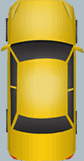
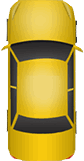
hybanie aut na kliknutie + test demo

Changed region(s): [[0.7381, 0.0, 1.0, 1.0], [0.0, 0.0, 0.2619, 1.0]]

diff --git a/animacie/script.js b/animacie/script.js
@@ -18,12 +18,31 @@ const poradieaut = [];
 // const easings = ['linear', 'easeInCubic', 'easeOutCubic', 'easeInOutCubic'];
 
 
+window.onload = function nastavAutaNaPozicie() {
+    //Nastavi modre auto na poziciu
+    modreauto.style.marginTop = "125px";
+    modreauto.style.marginLeft = "620px";
+    modreauto.style.transform = "rotate(180deg)";
+
+    //Nastavi cervene auto na poziciu
+    cerveneauto.style.marginTop = "325px";
+    cerveneauto.style.marginLeft = "280px";
+
+    //Nastavi zlte auto na poziciu
+    zlteauto.style.marginTop = "405px";
+    zlteauto.style.marginLeft = "530px";
+    zlteauto.style.transform = "rotate(-90deg)";
+
+
+}
 
 
 function motionPath1() {
-    modreauto.style.marginTop = "0px";
+    modreauto.style.marginTop = "-85px";
+    modreauto.style.marginLeft = "-40px";
+
     anime({
-        targets: '.box.red',
+        targets: '.box.blue',
         translateX: path('x'),
         translateY: path('y'),
         rotate: path('angle'),
@@ -31,13 +50,15 @@ function motionPath1() {
         duration: 5000,
         loop: false
     });
-    const spravneporadie = [1,2,3];
+    const spravneporadie = [1, 2, 3];
     poradieaut.push(1);
     poradieaut.push(2);
     poradieaut.push(3);
     if (poradieaut.sort() === spravneporadie) {
         console.log("sikokot");
-    } else {console.log(poradieaut.sort())}
+    } else {
+        console.log(poradieaut.sort())
+    }
 }
 
 
@@ -45,26 +66,52 @@ const modreauto = document.getElementById("modreauto");
 modreauto.addEventListener('click', motionPath1);
 
 
-const motionPath2 = anime({
-    targets: '.box.blue',
-    translateX: path2('x'),
-    translateY: path2('y'),
-    rotate: path2('angle'),
-    easing: 'easeInOutCubic',
-    duration: 5000,
-    loop: true
-});
+function motionPath2() {
+    cerveneauto.style.marginTop = "0px";
+    cerveneauto.style.marginLeft = "-40px";
+    anime({
+        targets: '.box.red',
+        translateX: path2('x'),
+        translateY: path2('y'),
+        rotate: path2('angle'),
+        easing: 'easeInOutCubic',
+        duration: 5000,
+        loop: false
+    });
+}
 
-const motionPath3 = anime({
-    targets: '.box.yellow',
-    translateX: path3('x'),
-    translateY: path3('y'),
-    rotate: path3('angle'),
-    easing: 'easeInOutCubic',
-    duration: 5000,
-    loop: true
-});
+const cerveneauto = document.getElementById("cerveneauto");
+cerveneauto.addEventListener("click", motionPath2);
 
+
+function motionPath3() {
+    zlteauto.style.marginTop = "-40px";
+    zlteauto.style.marginLeft = "0px";
+    anime({
+        targets: '.box.yellow',
+        translateX: path3('x'),
+        translateY: path3('y'),
+        rotate: path3('angle'),
+        easing: 'easeInOutCubic',
+        duration: 5000,
+        loop: false
+    });
+}
+const zlteauto = document.getElementById("zlteauto");
+zlteauto.addEventListener("click",motionPath3);
+
+function holdOn(milisekundy) {
+    setTimeout( function() {
+        }, milisekundy );
+}
+
+function spustiDemo() {
+    motionPath1();
+    holdOn(20000);
+    motionPath2();
+    delay(2000);
+    motionPath3();
+}
 
 
 

diff --git a/animacie/index.html b/animacie/index.html
@@ -17,12 +17,11 @@
 
 <div id="anime-demo">
 
-
-<div class="box blue" id="modreauto" >
-    <img src="modreauto.png"  style="transform: rotate(90deg); margin-top: -80px" height="161" width="84" ">
+<div class="box blue" id="modreauto">
+    <img src="modreauto.png"  style="transform: rotate(90deg)" height="161" width="84" >
 </div>
 <div class="box red" id="cerveneauto">
-    <img src="cerveneauto.png" style="transform: rotate(90deg); margin-top: -30px" height="161" width="84" >
+    <img src="cerveneauto.png" style="transform: rotate(90deg); margin-top: -80px" height="161" width="84" >
 </div>
 <div class="box yellow" id="zlteauto">
     <img src="zlteauto.png" style="transform: rotate(90deg); margin-top: -80px" height="161" width="84">
@@ -38,6 +37,8 @@
 
 
 </div>
+<h1>Krizovatka 1</h1>
+<button id="demo" onclick="spustiDemo()">DEMO</button>
 </body>
 <footer>
     <script src="https://cdnjs.cloudflare.com/ajax/libs/animejs/2.0.2/anime.min.js"></script>

diff --git a/animacie/style.css b/animacie/style.css
@@ -17,28 +17,13 @@ body{
 }
 
 .box {
-
-
-    margin: 4px;
-    display: inline-block;
-    top: -10px;
-    left: -10px;
-    opacity: 1;
-    border-radius: 5px;
-    width: 50px;
-    height: 50px;
-
-}
-
-.box {
     position: absolute;
-    top: px;
+
 }
 
-.box.red{
-    position: absolute;
-    margin-top: 50px;
-}
+
+
+
 
 
 
